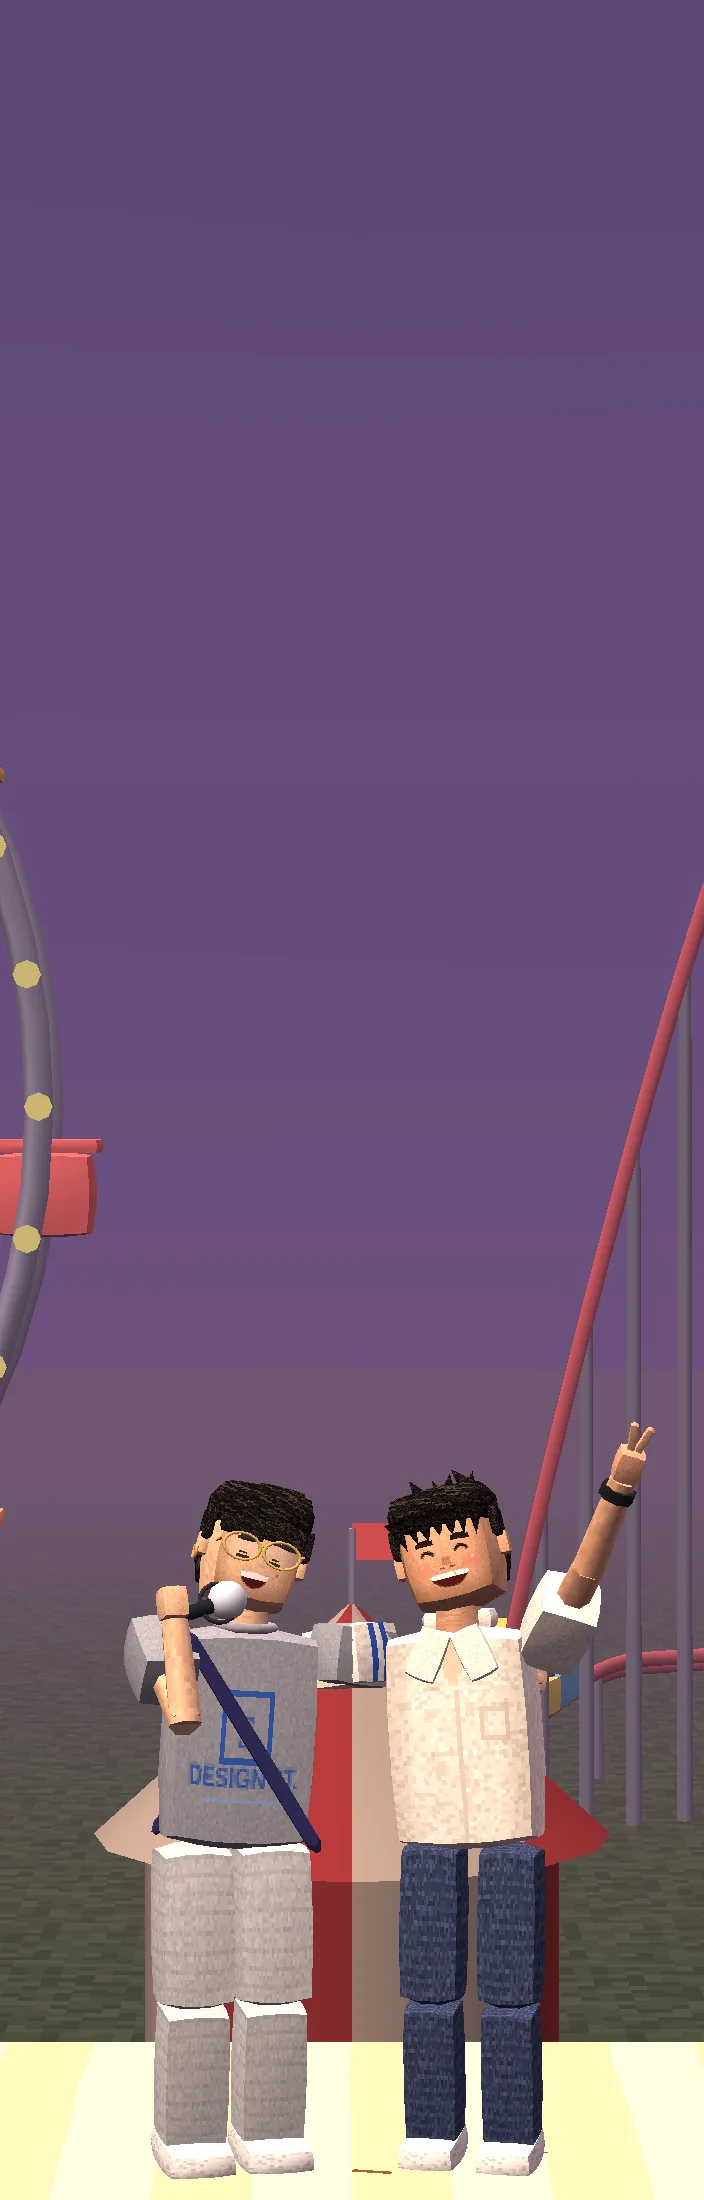
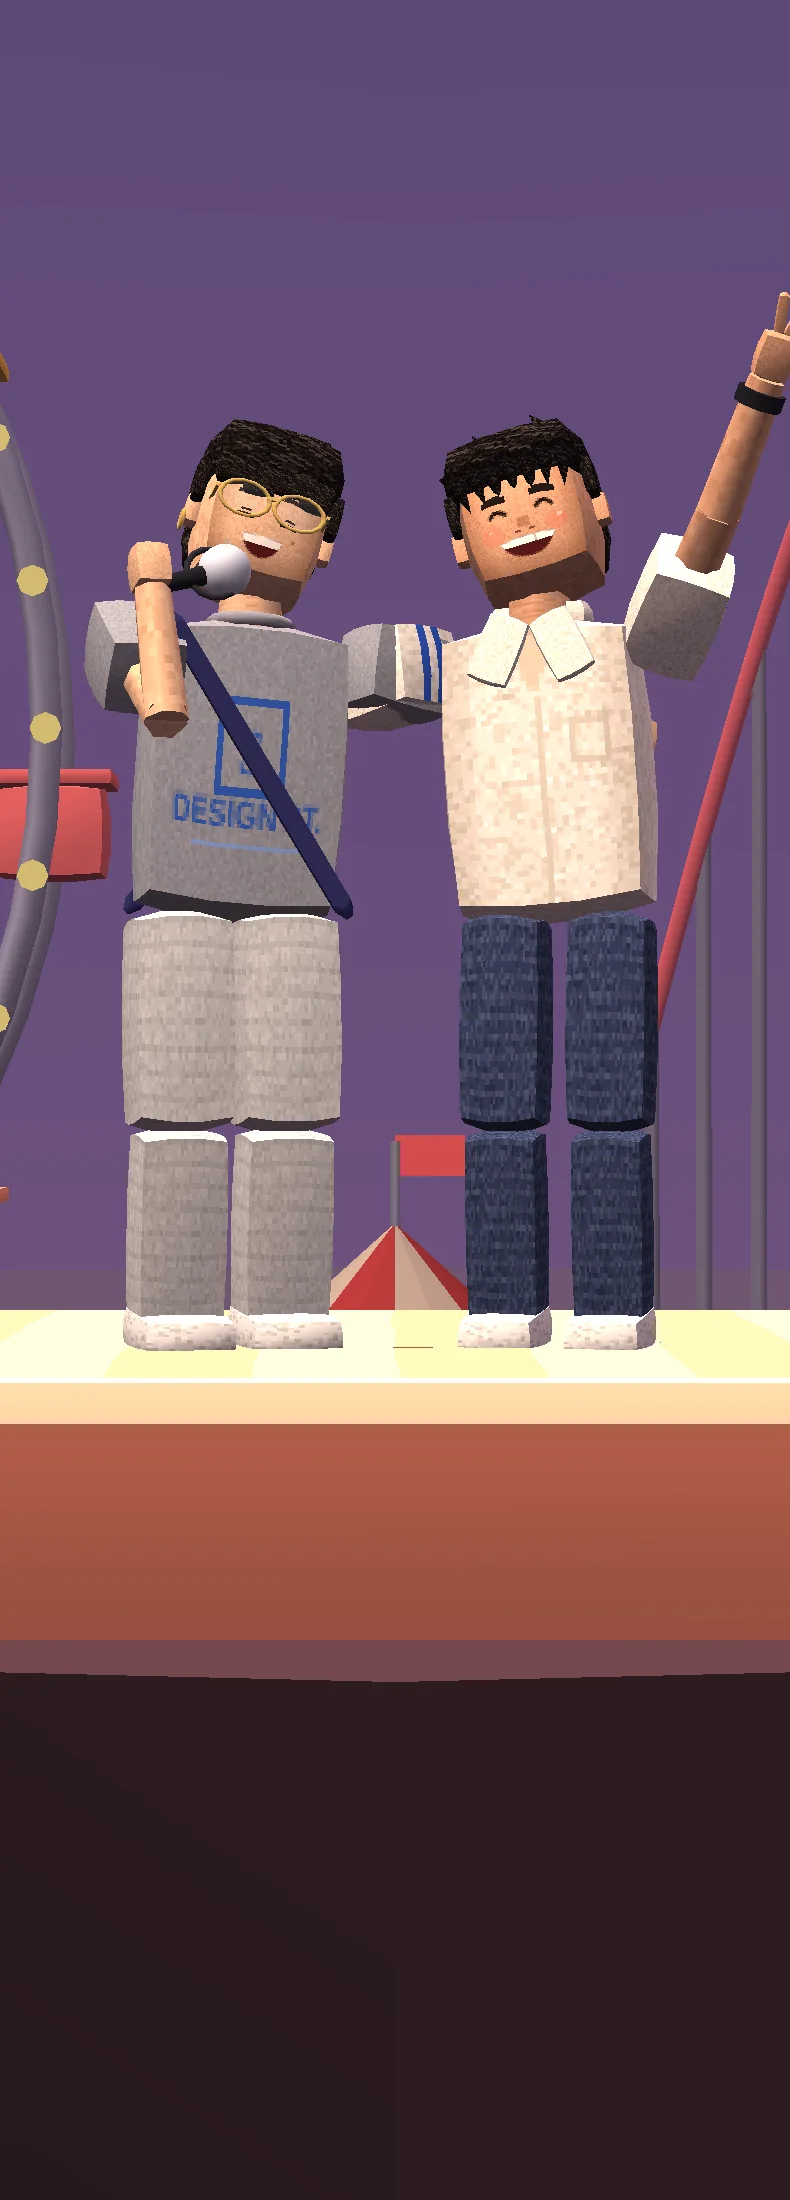
Hitster card: align with the other cards' layout, duo in background under the shared gradient
Claude-Session: https://claude.ai/code/session_01NgRp7Ys8dg3u1H8rSCq7qi

diff --git a/index.html b/index.html
@@ -51,10 +51,7 @@
 .modeSplit{grid-template-columns:repeat(6,minmax(0,1fr))}
 .hitster{--accent:#8ac926;background:#15232d}
 .hitster .scene{background:url('assets/hitster-bg-tall.webp') center bottom/cover no-repeat}
-.hitster:after{background:linear-gradient(#0c111418,#120e0c00 60%,#120e0c40 100%)}
-@media(orientation:landscape){.hitster{justify-content:flex-start}.hitster .logoArea{margin-top:14px}}
-@media(orientation:portrait){.hitster{padding-left:42%}.hitster .scene{background-image:url('assets/hitster-bg-wide.webp');background-position:center bottom}}
-.hitster .logoArea{filter:none}
+@media(orientation:portrait){.hitster .scene{background-image:url('assets/hitster-bg-wide.webp');background-position:left bottom}}
 .hitsterLogo{width:100%;height:100%;object-fit:contain}
 @media(max-width:850px) and (orientation:portrait){.modeSplit{grid-template-columns:1fr;grid-template-rows:repeat(6,minmax(270px,1fr))}}
 @media(orientation:landscape){.modeSplit{grid-template-columns:repeat(6,minmax(0,1fr))}}
